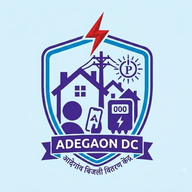
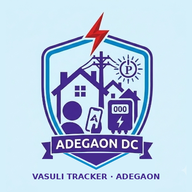
login पन्ने पर ऐप की साफ़ पहचान, लोगो पर अंग्रेज़ी नाम (v9.193) — JE की अनुमति बाक़ी
Google के लाल ठप्पे (8/10, phishing) से बचाव का चरण A:
- login पन्ने पर अंग्रेज़ी पंक्ति "This is not an official website of the department. It is an
  internal tool used by Adegaon DC staff to track bill recovery." + Privacy Policy का लिंक
- लोगो: नीचे की हिंदी पंक्ति "आदेगांव बिजली वितरण केंद्र" हटाकर "VASULI TRACKER · ADEGAON";
  सारे icons (512, maskable, 192, apple-touch, login-logo.webp 13.9→10.4 KB) नए
- privacy.html के ऊपर अंग्रेज़ी "About this app"
- नया टेस्ट: पंक्ति दिखे, "payment" शब्द न हो, लिंक privacy.html पर, पन्ना मौजूद

APP_VER 9.192→9.193, CACHE_NAME v209→v210

Claude-Session: https://claude.ai/code/session_01KugSDUeDwADxyatVnjixje

Changed region(s): [[0.1562, 0.7812, 0.8438, 0.9375]]

diff --git a/index.html b/index.html
@@ -66,7 +66,7 @@ try{
   <div class="org-banner" style="position:fixed;top:0;left:0;right:0;z-index:50;">&#9889; आदेगांव बिजली वितरण केंद्र</div>
   <!-- 92px में दिखता है — पहले 327 KB की icon-512.png थी; अब 276px WebP (~14 KB, तेज़ स्क्रीन के लिए 3 गुना)।
        WebP न खुले (बहुत पुराना browser) तो पहले icon-192.png, फिर ⚡ -->
-  <img class="login-logo" src="icons/login-logo.webp" width="92" height="92" alt="आदेगांव DC logo" onerror="if(!this.dataset.fb){this.dataset.fb='1';this.src='icons/icon-192.png';}else{this.outerHTML='<div style=\'font-size:60px;margin-bottom:10px\'>&#9889;</div>';}">
+  <img class="login-logo" src="icons/login-logo.webp" width="92" height="92" alt="Vasuli Tracker Adegaon logo" onerror="if(!this.dataset.fb){this.dataset.fb='1';this.src='icons/icon-192.png';}else{this.outerHTML='<div style=\'font-size:60px;margin-bottom:10px\'>&#9889;</div>';}">
   <div class="login-title">आदेगांव DC वसूली ट्रैकर</div>
   <div class="login-sub">लखनादौन डिवीजन सिवनी सर्कल</div>
   <div id="ver-badge" style="font-size:10px;font-weight:600;color:var(--gold);border:1px solid var(--border);background:var(--card);border-radius:12px;padding:3px 12px;margin:-14px 0 20px;"></div>
@@ -119,6 +119,10 @@ try{
     <input type="text" id="uname-inp" class="f-input" placeholder="जैसे: राजेश कुमार">
     <button class="login-btn" onclick="doLogin()">&#128272; प्रवेश करें</button>
   </div>
+  <!-- ऐप की पहचान साफ़ लिखी रहे — 8/10 को Google ने github.io पर "धोखाधड़ी वाली साइट" का लाल ठप्पा
+       लगाया था (login पन्ना + विभाग जैसा नाम + मुफ़्त होस्ट = phishing जैसा दिखना)। JE के कहने पर
+       अंग्रेज़ी में, ताकि Google का स्वचालित जांचक भी पढ़ सके; privacy नीति का लिंक भी यहीं -->
+  <div class="login-disclaimer" translate="no">This is not an official website of the department. It is an internal tool used by Adegaon DC staff to track bill recovery.<br><a href="privacy.html" target="_blank" rel="noopener">Privacy Policy</a></div>
   <div id="home-sc" style="width:100%;max-width:360px;margin-top:14px;"></div>
 </div>
 

diff --git a/css/style.css b/css/style.css
@@ -71,6 +71,8 @@ body{font-family:"Noto Sans Devanagari",sans-serif;background:var(--bg);color:va
 .login-sub{font-size:11px;color:var(--muted);text-align:center;margin-bottom:22px;animation:fadeUp .6s ease-out;}
 .login-card{background:var(--card);border:1px solid var(--border);border-radius:24px;padding:22px;width:100%;max-width:360px;box-shadow:var(--shadow-glow);animation:fadeUp .65s ease-out;position:relative;overflow:hidden;}
 .login-card::before{content:"";position:absolute;top:0;left:0;right:0;height:3px;background:var(--grad-brand2);}
+.login-disclaimer{max-width:360px;width:100%;margin-top:12px;font-size:11px;line-height:1.5;color:var(--muted);text-align:center;}
+.login-disclaimer a{color:var(--muted);text-decoration:underline;}
 .f-label{font-size:10px;color:var(--muted);font-weight:700;text-transform:uppercase;letter-spacing:.6px;margin-bottom:6px;display:block;}
 .f-input,.f-select{width:100%;background:var(--surface);border:1.5px solid var(--border);border-radius:12px;padding:11px 13px;color:var(--text);font-family:"Noto Sans Devanagari",sans-serif;font-size:14px;margin-bottom:14px;outline:none;appearance:none;transition:border-color .15s,box-shadow .15s;}
 .f-input:focus,.f-select:focus{border-color:var(--gold);box-shadow:0 0 0 3px rgba(31,111,178,.15);}

diff --git a/privacy.html b/privacy.html
@@ -16,6 +16,10 @@
 </head>
 <body>
 <h1>Privacy Policy — वसूली ट्रैकर</h1>
+<p class="box" lang="en"><strong>About this app (Vasuli Tracker — Adegaon):</strong> This is not an official website
+of the department. It is an internal tool used by the field staff (linemen and Junior Engineer) of Adegaon DC,
+Lakhnadon Division, Seoni Circle, to record and track electricity bill recovery. It is not a public service,
+it does not collect any payment, bank, UPI or card details, and it does not imitate any other website or app.</p>
 <p class="box"><strong>यह एक आंतरिक विभागीय उपकरण है</strong> — लखनादौन डिवीजन सिवनी सर्कल (आदेगांव DC)
 के फ़ील्ड स्टाफ (लाइनमैन/JE) द्वारा बकाया बिजली बिल वसूली की जानकारी रिकॉर्ड करने के लिए। यह कोई
 सार्वजनिक सेवा नहीं है और किसी अन्य वेबसाइट/ऐप की नकल नहीं करता।</p>

diff --git a/js/config.js b/js/config.js
@@ -14,7 +14,7 @@ var HQ_AUTH_EMAIL = {
   "बीबी":"hq-bibi@adegaondc.internal",
   "मढ़ी":"hq-madhi@adegaondc.internal"
 };
-var APP_VER = "9.192"; // हर अपडेट पर यह नंबर बढ़ाएं
+var APP_VER = "9.193"; // हर अपडेट पर यह नंबर बढ़ाएं
 document.getElementById("ver-badge").textContent="Version "+APP_VER+" • Offline + Auto Sync";
 var MAX_RECORDS = 1000;
 // Per-category limits: "कुल उपभोक्ता"=3500, others=1000

diff --git a/sw.js b/sw.js
@@ -1,4 +1,4 @@
-var CACHE_NAME="adegaon-dc-v209";
+var CACHE_NAME="adegaon-dc-v210";
 // ध्यान दें: ./vendor/papaparse.min.js (20KB) और ./vendor/xlsx.full.min.js (862KB) जान-बूझकर
 // यहां शामिल नहीं हैं — ये सिर्फ़ Excel/CSV वाले features (backup/upload) इस्तेमाल होने पर
 // js/storage.js की ensureLibs() से lazy-load होती हैं। पहले हर version-update पर हर device
